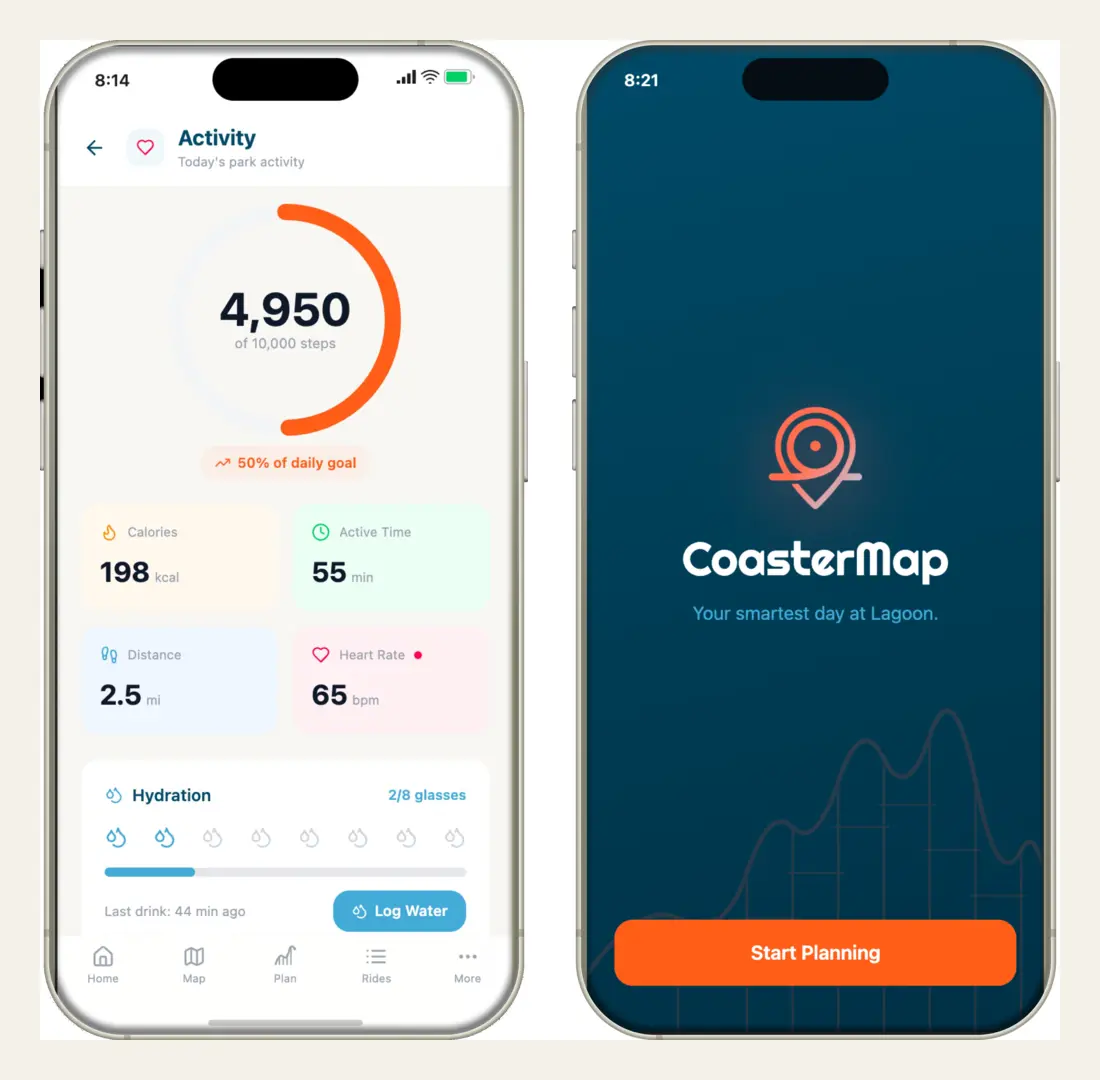
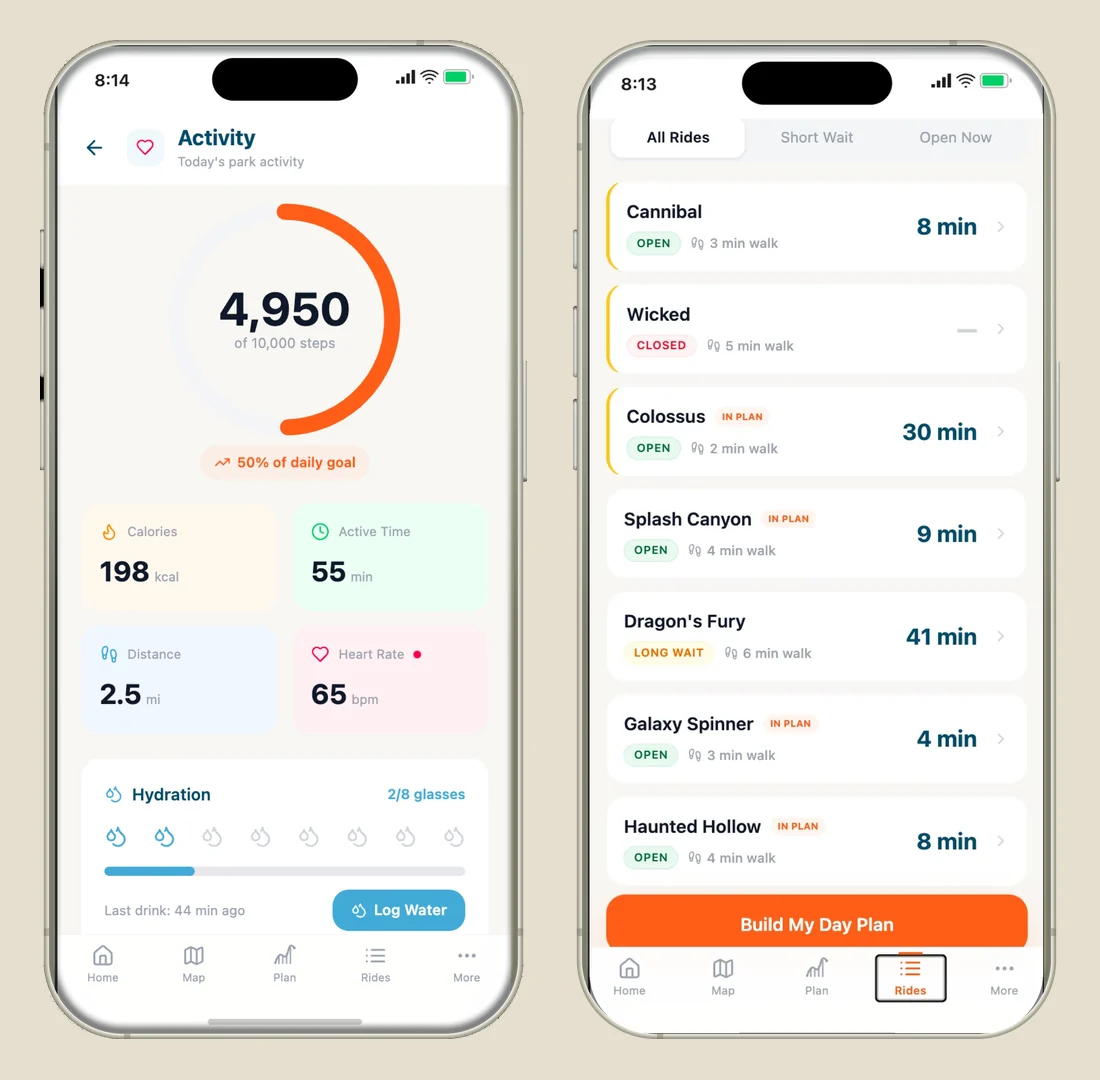
Rework the two design case studies
CoasterMap led with a still of four screens and then, a few hundred
pixels later, a prototype that opened on the first of them. The
prototype comes straight after the summary now - it is the best thing
on the page, and the summary already says what the app is for - and the
still moves down into "What it does", where the writing describes the
screens it shows. A noscript line points at them for anyone without
JavaScript, since the prototype hides itself there.

The closing note had gone stale: it said the app was described rather
than running, which is now only half true. It separates the two - the
click-through is real, the ride waits and train times are designed data.

The activity figure showed the activity view next to the opening
screen, which after the last change appeared three times on the page.
Its second phone is the ride list instead, which is the screen the
paragraph beside it is actually about: the wait colors that have to
hold up in the sun. The ride list only exists as a flat crop out of a
promotional card, so it is composited into the launch kit's own device
frame to match the phone beside it.

Trellis opened on a sitemap, alone among the case studies in having no
picture until the second screenful, and closed on its home page as if
it were a footnote. The home page is the hero now - it states the
promise the whole concept rests on - and the body keeps the order the
work happened in: structure, then the style guide, then the pages.
[…]

diff --git a/case-studies/coastermap.html b/case-studies/coastermap.html
@@ -47,15 +47,10 @@
 
         <p>CoasterMap is a day planner for Lagoon, the amusement park in Farmington. A day there is mostly spent guessing: which rides are open, how long the line is, whether there is time for one more before the train home. The app answers those three questions on one screen and then plans around them.</p>
 
-        <figure class="figure--phones">
-            <img class="shot" src="../images/design/coastermap-screens.webp" width="2122" height="1059" alt="Four CoasterMap screens: the opening screen, a home screen with the next train and ride waits, a ride page for Cannibal with its wait time, and directions to Lagoon by train" loading="lazy">
-            <figcaption>The opening screen, the home screen, a ride, and getting there by train.</figcaption>
-        </figure>
-
-
         <section class="proto-intro">
             <h2>Try it</h2>
-            <p>The screens above are the real ones, wired together the way the prototype runs: tap the train card, a ride, or the button that builds the day, and the tab bar moves between them. Turn on <span class="proto-intro__hint">Show taps</span> if you would rather see where it goes.</p>
+            <p>Nine screens, wired together the way the prototype runs. Tap the train card, a ride, or the button that builds the day, and the tab bar moves between them. Turn on <span class="proto-intro__hint">Show taps</span> if you would rather see where the taps are than hunt for them.</p>
+            <noscript><p>The prototype needs JavaScript. The screens it moves between are further down the page.</p></noscript>
         </section>
 
         <div class="proto" data-proto hidden>
@@ -80,6 +75,11 @@
 
         <h2>What it does</h2>
         <p>The home screen leads with the countdown to the next FrontRunner train, then what is open right now and how long each wait is. A ride page carries the wait, the height requirement, the thrill level and how far the walk is, with one button to add it to the plan.</p>
+
+        <figure class="figure--phones">
+            <img class="shot" src="../images/design/coastermap-screens.webp" width="2122" height="1059" alt="Four CoasterMap screens: the opening screen, a home screen with the next train and ride waits, a ride page for Cannibal with its wait time, and directions to Lagoon by train" loading="lazy">
+            <figcaption>The opening screen, the home screen, a ride, and getting there by train.</figcaption>
+        </figure>
         <p>Telling the app how long you have, who you are with and what you care about produces a timeline for the day: rides, breaks, and the walk back to the station in time for a specific train. If a ride closes while you are there, the plan offers a swap instead of falling apart.</p>
 
         <figure>
@@ -91,8 +91,8 @@
         <p>Lagoon is outdoors in the summer, so the wait chips use three colors that still read in bright sun rather than small grey type. Getting there matters as much as the rides: the train screen shows northbound and southbound departures and will set a reminder, because the last train is a hard deadline on the day. An activity view tracks steps, distance and water, since a park day is a long walk whether or not you planned one.</p>
 
         <figure class="figure--phones">
-            <img class="shot" src="../images/design/coastermap-activity.webp" width="1100" height="1080" alt="Two CoasterMap screens: an activity view with steps, calories, distance, heart rate and hydration, and the app's opening screen" loading="lazy">
-            <figcaption>The activity view and the opening screen.</figcaption>
+            <img class="shot" src="../images/design/coastermap-activity.webp" width="1100" height="1080" alt="Two CoasterMap screens: an activity view with steps, calories, distance, heart rate and hydration, and the list of rides with its color-coded waits" loading="lazy">
+            <figcaption>The activity view, and the list where the wait colors have to hold up in the sun.</figcaption>
         </figure>
 
         <h2>The app icon</h2>
@@ -104,10 +104,10 @@
         </figure>
 
         <h2>Where it stands</h2>
-        <p>This is a designed prototype, not a shipped app. The ride waits, train times and step counts in the screens are designed data, and the plan logic is described rather than running. The screens here come from the launch kit I put together to present it.</p>
+        <p>This is a designed prototype, not a shipped app. The click-through at the top is real — those are the screens and the paths between them — but the ride waits, train times and step counts are designed data, and the planning logic is described rather than running. The screens come from the launch kit I put together to present it.</p>
 
         <nav class="pager" aria-label="Projects">
-            <a href="uvu-review.html" rel="prev"><span>Previous</span>UVU Review website</a>
+            <a href="case-study-01.html" rel="prev"><span>Previous</span>Chuck Rack store</a>
             <a href="trellis.html" rel="next"><span>Next</span>Trellis</a>
         </nav>
     </main>

diff --git a/case-studies/trellis.html b/case-studies/trellis.html
@@ -47,6 +47,13 @@
 
         <p>Trellis is a concept for a store builder that uses the AI you already pay for. You buy a template or a style guide in the marketplace, and your own assistant applies it to your store, so the thing you are paying a subscription for does the work instead of another builder's settings menus. I designed it in weekly sprints, starting with structure and ending with the high-fidelity pages.</p>
 
+        <p>The home page leads with that promise and names the assistants it works with, because the whole idea depends on already having one.</p>
+
+        <figure class="figure--screen">
+            <img class="shot" src="../images/design/trellis-home.webp" width="1440" height="960" alt="The Trellis home page, headlined Ask your AI. It knows what to change." loading="lazy">
+            <figcaption>The home page.</figcaption>
+        </figure>
+
         <h2>Structure before screens</h2>
         <p>The first sprint was a sitemap and the flows, with the scope marked on the drawing itself: what was wireframed so far, what is a page, what is only a section inside a page, and what is out of scope. Three flows carry the product — creating a free account, buying from the marketplace, and turning on payments — and the two moments where money changes hands are labelled, so it is clear what the rest of the design is in service of.</p>
 
@@ -78,19 +85,12 @@
             <figcaption>A template page.</figcaption>
         </figure>
 
-        <p>The home page leads with the promise and names the assistants it works with, because the whole idea depends on already having one.</p>
-
-        <figure class="figure--screen">
-            <img class="shot" src="../images/design/trellis-home.webp" width="1440" height="960" alt="The Trellis home page, headlined Ask your AI. It knows what to change." loading="lazy">
-            <figcaption>The home page.</figcaption>
-        </figure>
-
         <h2>Where it stands</h2>
         <p>The desktop pages are done through checkout and support. Mobile layouts and a clickable prototype were never part of the sprints, so this is a design, not something you can click through.</p>
 
         <nav class="pager" aria-label="Projects">
             <a href="coastermap.html" rel="prev"><span>Previous</span>CoasterMap</a>
-            <a href="case-study-01.html" rel="next"><span>Next</span>Chuck Rack store</a>
+            <a href="case-study-02.html" rel="next"><span>Next</span>UVU CET website redesign</a>
         </nav>
     </main>
 

diff --git a/case-studies/case-study-02.html b/case-studies/case-study-02.html
@@ -76,7 +76,7 @@
         </p>
 
         <nav class="pager" aria-label="Case studies">
-            <a href="case-study-01.html" rel="prev"><span>Previous</span>Chuck Rack store</a>
+            <a href="trellis.html" rel="prev"><span>Previous</span>Trellis</a>
             <a href="case-study-03.html" rel="next"><span>Next</span>Learning HTML in DWDD 1600</a>
         </nav>
     </main>

diff --git a/case-studies/case-study-01.html b/case-studies/case-study-01.html
@@ -72,7 +72,7 @@
 
         <nav class="pager" aria-label="Case studies">
             <a href="uvu-review.html" rel="prev"><span>Previous</span>UVU Review website</a>
-            <a href="case-study-02.html" rel="next"><span>Next</span>UVU CET website redesign</a>
+            <a href="coastermap.html" rel="next"><span>Next</span>CoasterMap</a>
         </nav>
     </main>
 
